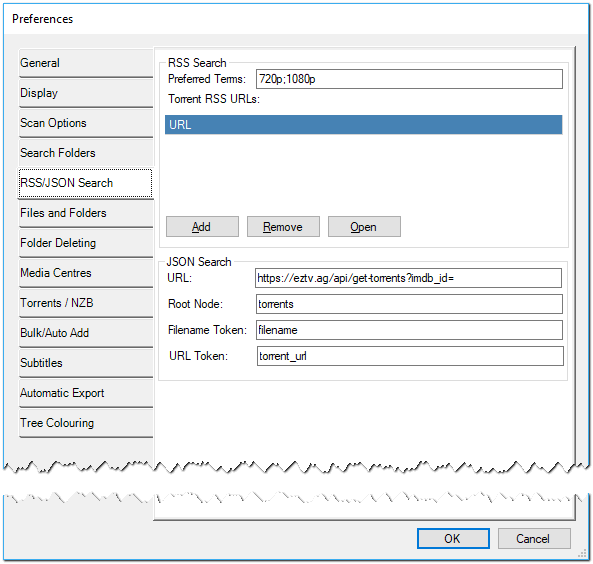
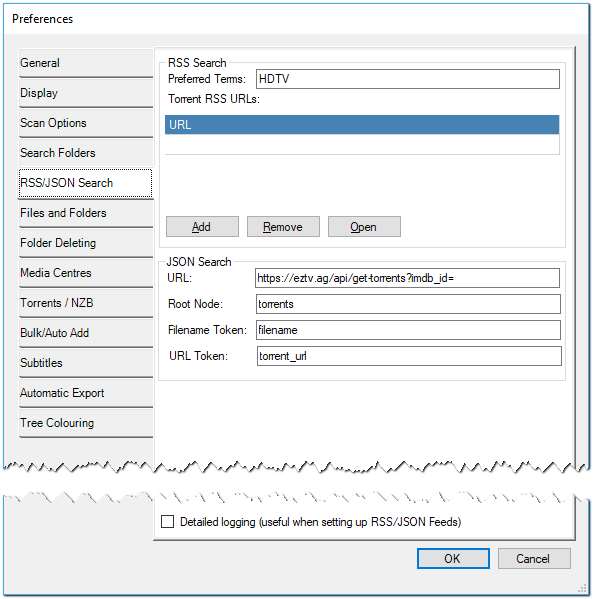
update options rss/json

diff --git a/_manual/options/preferences-rss-json-search.md b/_manual/options/preferences-rss-json-search.md
@@ -30,6 +30,14 @@ Basically the JSON Search:
 5. Iterates across items in that node looking for tags with "Filename Token" and "URL token".
 6. If the filename token looks like it is something useful it downloads the URL token.
 
+**If things go wrong...**
+
+If you are having trouble setting up either of the above searches there is a new tick box at the bottom of the window which may help.
+
+Ticking the "Detailed logging" box will greatly increase the log detail around either of the searches and will help with problem diagnostics.
+
+It is recommended that you only use this option if you need to. When ticked the size of the log file will grow very quickly
+
 {:.toplink}
 [Return to Top]()
 <!-- END PREFERENCES {RSS/JSON SEARCH TAB] --- -->
